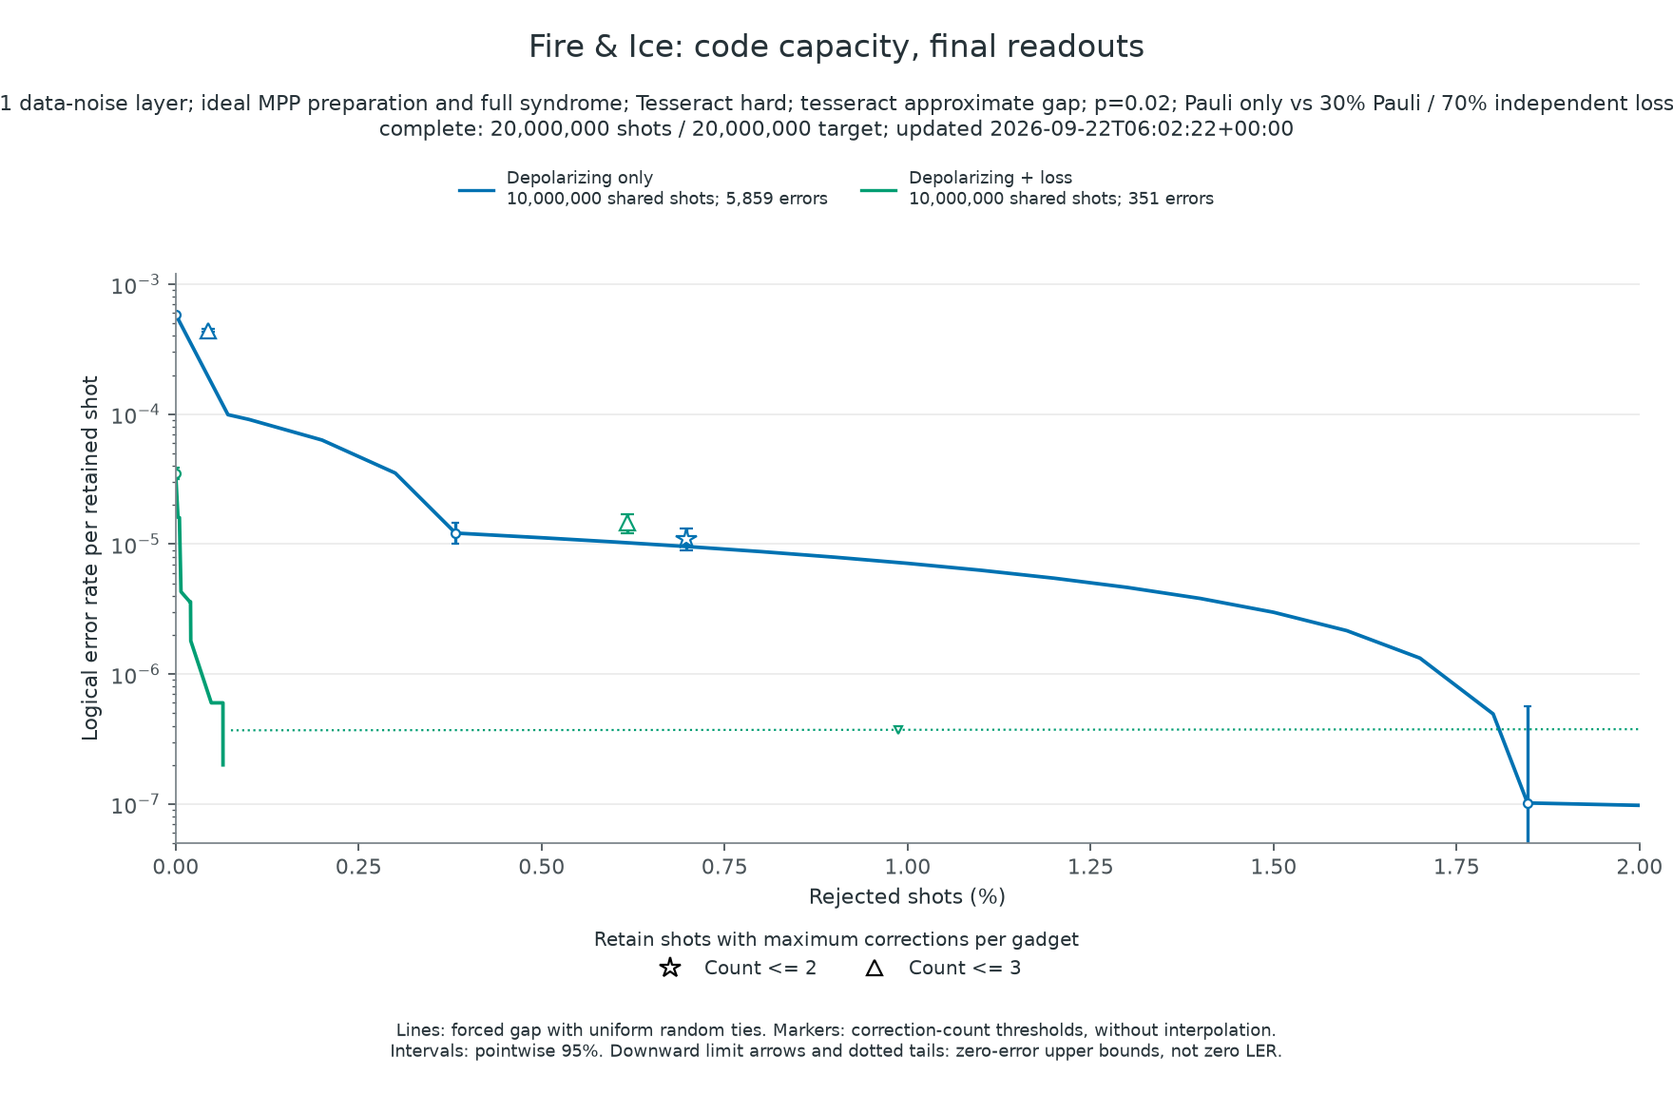
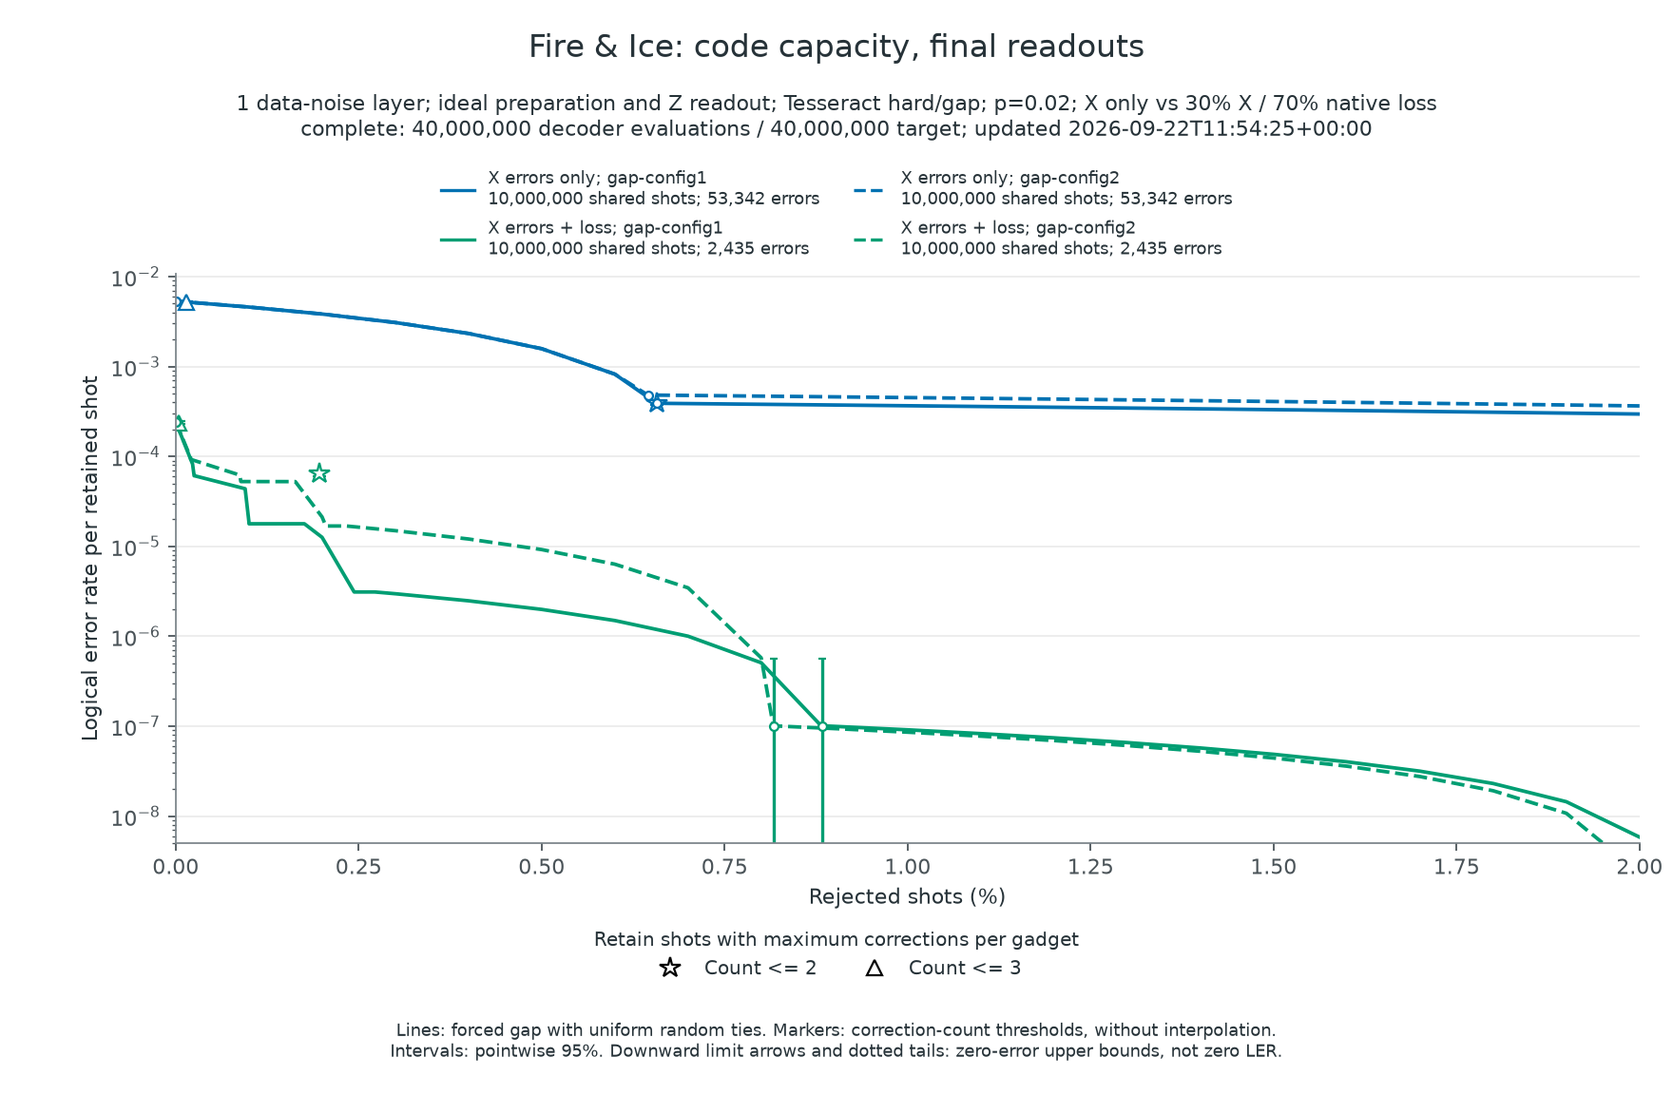
add evaluation data and script

diff --git a/deq/documents/tutorial/examples/post-selection/run_post_selection.py b/deq/documents/tutorial/examples/post-selection/run_post_selection.py
@@ -47,7 +47,7 @@ from simulation import (
 PROGRAM = "SteaneZMemory"
 CASES = ("monolithic", "window-r0", "window-r1", "window-r2", "window-r3", "window-r4", "window-r5", "window-r6")
 CAPACITY_PROGRAM = "CodeCapacityZMemory"
-CAPACITY_CASES = ("capacity-pauli", "capacity-mixed")
+CAPACITY_CASES = ("capacity-pauli", "capacity-mixed", "capacity-pauli-circuit-gap", "capacity-mixed-circuit-gap")
 BACKENDS = {"tesseract": "black-box-tesseract"}
 DEFAULT_PHYSICAL_ERROR_RATE = 0.007
 DEFAULT_SHOTS = 100_000
@@ -61,6 +61,7 @@ TESSERACT_CONFIG = {
     "det_penalty": 0.0,
 }
 GAP_CONFIG = {"det_penalty": 30, "pqlimit": 2000, "det_beam": 2, "beam_climbing": False}
+CAPACITY_GAP_CONFIG = {"det_penalty": 0, "pqlimit": 200000, "det_beam": 5, "beam_climbing": False}
 SURFACE_FIXTURE = DEQ_ROOT / "tests/circuit/surface_code/surface_code.deq"
 
 
@@ -101,7 +102,7 @@ def case_configuration(name: str, scored: bool = True, *, window_parallelism: st
 
 def compilation_directory(root: Path, name: str, *, capacity: bool = False) -> Path:
     directory = root / "setup/compile"
-    return directory / name if capacity else directory
+    return directory / name.removesuffix("-circuit-gap") if capacity else directory
 
 
 def prepare_circuit(
@@ -165,6 +166,17 @@ def load_batch(directory: Path, shots: int, *, final_readouts: int = 2) -> dict:
     }
 
 
+def batch_seed(parameters: dict, start: int) -> int:
+    return parameters["seed"] + start // parameters["batch_size"] * parameters.get("batch_seed_stride", 1)
+
+
+def case_gap_configuration(parameters: dict, name: str) -> dict:
+    return parameters.get("case_gap_configurations", {}).get(name, {
+        "gap_decoder": parameters.get("gap_decoder"),
+        "gap_decoder_config": parameters.get("gap_decoder_config"),
+    })
+
+
 def serialized_batch(function):
     @wraps(function)
     def locked(root, build, name, start, *arguments, **options):
@@ -203,6 +215,7 @@ def run_batch(
 ) -> tuple[dict, dict]:
     decoder_config = decoder_configuration(backend, decoder_config)
     gap = gap_configuration(backend, gap_decoder, gap_decoder_config)
+    final_readouts = 1 if code == "surface-code" else 2
     simulator = "static" if code == "surface-code" else "python"
     sampler_config = {} if code == "surface-code" else {
         "sampler": "@qdk_sampler",
@@ -249,7 +262,7 @@ def run_batch(
             digest(directory / name) != value for name, value in record["files"].items()
         ):
             raise ValueError("batch identity or data changed")
-        return record, load_batch(directory, shots, final_readouts=1 if code == "surface-code" else 2)
+        return record, load_batch(directory, shots, final_readouts=final_readouts)
     failure_path = directory / "failure.json"
     if accept_failure and failure_path.exists():
         failure = json.loads(failure_path.read_text())
@@ -347,7 +360,7 @@ def run_batch(
              "host": socket.gethostname()}, directory / "failure.json"
         )
         raise RuntimeError(f"native batch failed with exit {returncode}: {directory}")
-    result = load_batch(directory, shots, final_readouts=1 if code == "surface-code" else 2)
+    result = load_batch(directory, shots, final_readouts=final_readouts)
     record = {
         "identity": identity,
         "seconds": time.monotonic() - started,
@@ -425,6 +438,8 @@ def summarize(
         }
         if "case_loss_fractions" in parameters:
             case["loss_fraction"] = parameters["case_loss_fractions"][name]
+        if "case_gap_configurations" in parameters:
+            case.update(case_gap_configuration(parameters, name))
         point = (
             min(points, key=lambda point: abs(point["rejected_percent"] - 10))
             if points
@@ -466,11 +481,10 @@ def load_completed_batches(root: Path, parameters: dict) -> tuple[dict, dict]:
                 name,
                 start,
                 shots,
-                parameters["seed"] + start // parameters["batch_size"],
+                batch_seed(parameters, start),
                 parameters["rounds"],
                 timeout_seconds=identity["worker_timeout_seconds"],
-                gap_decoder=parameters.get("gap_decoder"),
-                gap_decoder_config=parameters.get("gap_decoder_config"),
+                **case_gap_configuration(parameters, name),
                 program=parameters.get("program", PROGRAM),
                 accept_failure=True,
                 _compiled_sha256=compiled_hashes[build],
@@ -551,6 +565,9 @@ def run(
     program = program or (CAPACITY_PROGRAM if capacity else PROGRAM)
     if capacity:
         rounds = 1
+        if gap_decoder is None and gap_decoder_config is None:
+            gap_decoder = BACKENDS[backend]
+            gap_decoder_config = CAPACITY_GAP_CONFIG.copy()
     code = "surface-code" if study == "surface-code" else "fire-ice"
     if physical_error_rate is None:
         physical_error_rate = 0.02 if capacity else 0.00345 if code == "surface-code" else DEFAULT_PHYSICAL_ERROR_RATE
@@ -565,6 +582,9 @@ def run(
         )
     if shots % batch_size:
         raise ValueError("shots must be a multiple of batch_size for resumable batches")
+    seed_stride = 1 if code == "surface-code" else (batch_size + 63) // 64
+    if code != "surface-code" and shots // batch_size * seed_stride > 1 << 32:
+        raise ValueError("QDK refill seeds would repeat after 32-bit wrapping; reduce the shot budget")
     if max_seconds is not None and max_seconds <= 0:
         raise ValueError("max_seconds must be positive")
     if plot_interval <= 0:
@@ -597,6 +617,7 @@ def run(
         jobs=jobs,
         batch_size=batch_size,
         seed=seed,
+        batch_seed_stride=seed_stride,
         physical_error_rate=physical_error_rate,
         noise=(f"{100 * pauli_fraction:g}% Pauli + {100 * loss_fraction:g}% loss at two-qubit gates; "
                + ("equal first/second/both loss branches; " if loss_fraction else "")
@@ -630,11 +651,18 @@ def run(
         parameters.pop("two_qubit_loss_branches")
         parameters.update(
             noise_model="capacity",
-            noise="one independent data-qubit DEPOLARIZE1/loss layer; ideal preparation and Z readout",
-            case_loss_fractions={name: 0.0 if name == "capacity-pauli" else loss_fraction for name in cases},
+            noise="independent data-qubit X_ERROR and LOSS_ERROR between ideal MPP preparation and individual Z readout",
+            pauli_noise="X_ERROR",
+            loss_observation="native per-data-qubit loss heralds from final Z measurements; no synthetic flags",
+            case_loss_fractions={name: 0.0 if name.removesuffix("-circuit-gap") == "capacity-pauli" else loss_fraction for name in cases},
+            case_gap_configurations={name: gap_configuration(backend, BACKENDS[backend], GAP_CONFIG)
+                                     if name.endswith("-circuit-gap") else gap_configuration(backend, gap_decoder, gap_decoder_config)
+                                     for name in cases},
+            gap_comparison="capacity and circuit search settings use matched QDK seeds and unchanged hard decoding",
             measurement_pauli_probability=0.0,
-            logical_error_definition="either of the two final logical Z assertions fails",
+            logical_error_definition="either final logical Z readout differs from its ideally prepared value",
             selection_scope="Final 2 asserted logical Z readouts",
+            syndrome_sectors="Z sector for X-error memory; nine independent checks",
         )
     with (root / "runner.lock").open("a") as lock:
         fcntl.flock(lock, fcntl.LOCK_EX | fcntl.LOCK_NB)
@@ -796,8 +824,9 @@ def run(
                 return summary
         if not records:
             prepare = prepare_surface_circuit if code == "surface-code" else prepare_circuit
-            for name in cases if capacity else ("monolithic",):
-                fraction = parameters.get("case_loss_fractions", {}).get(name, loss_fraction)
+            compile_cases = dict.fromkeys(name.removesuffix("-circuit-gap") for name in cases) if capacity else ("monolithic",)
+            for name in compile_cases:
+                fraction = 0.0 if capacity and name == "capacity-pauli" else loss_fraction
                 circuit = prepare(
                     rounds, physical_error_rate, root / f"{name if capacity else code}.deq",
                     **({"loss_fraction": fraction} if code == "fire-ice" else {}),
@@ -823,9 +852,9 @@ def run(
         def submit(pool, task):
             name, start = task
             return pool.submit(
-                execute_batch, root, builds[name], name, start, batch_size, seed + start // batch_size,
-                rounds, backend=backend, sampling=sampling, gap_decoder=gap_decoder,
-                gap_decoder_config=gap_decoder_config, program=program, decoder_config=hard_config,
+                execute_batch, root, builds[name], name, start, batch_size, batch_seed(parameters, start),
+                rounds, backend=backend, sampling=sampling, **case_gap_configuration(parameters, name),
+                program=program, decoder_config=hard_config,
                 window_parallelism=window_parallelism, code=code,
             )
 
@@ -837,9 +866,9 @@ def run(
                 if not (root / name / "chunks" / f"{start:09d}" / "failure.json").exists():
                     raise
                 record, result = run_batch(
-                    root, builds[name], name, start, batch_size, seed + start // batch_size,
-                    rounds, backend=backend, sampling=sampling, gap_decoder=gap_decoder,
-                    gap_decoder_config=gap_decoder_config, program=program, accept_failure=True,
+                    root, builds[name], name, start, batch_size, batch_seed(parameters, start),
+                    rounds, backend=backend, sampling=sampling, **case_gap_configuration(parameters, name),
+                    program=program, accept_failure=True,
                     decoder_config=hard_config, window_parallelism=window_parallelism, code=code,
                 )
                 print(json.dumps({"event": "execution_failure", "case": name,
@@ -910,10 +939,10 @@ def main():
         loss_fraction=loss_fraction, cases=tuple(args.cases or saved.get("configurations", CAPACITY_CASES if capacity else CASES)),
         window_parallelism=parallelism, decoder_config=setting("decoder_config", None),
         gap_decoder=setting("gap_decoder", None if saved else "black-box-tesseract"),
-        gap_decoder_config=setting("gap_decoder_config", None if saved else GAP_CONFIG),
+        gap_decoder_config=setting("gap_decoder_config", None if saved else CAPACITY_GAP_CONFIG if capacity else GAP_CONFIG),
     )
     if args.plot_only:
-        if capacity and (saved.get("decoder") != "Tesseract" or saved.get("program") != CAPACITY_PROGRAM):
+        if capacity and (saved.get("decoder") != "Tesseract" or saved.get("program") not in (CAPACITY_PROGRAM, "CodeCapacityXMemory")):
             parser.error("capacity plotting requires native DEQ results; use frozen tools for the retired Python reference")
         summary = (json.loads((root / "summary.json").read_text())
                if not (root / "manifest.json").exists() else recover_summary(root))

diff --git a/deq/documents/tutorial/examples/post-selection/post_selection_plots.py b/deq/documents/tutorial/examples/post-selection/post_selection_plots.py
@@ -22,8 +22,10 @@ from post_selection_stats import (
 
 CASE_STYLES = {
     "monolithic": ("Monolithic", "#222222"),
-    "capacity-pauli": ("Depolarizing only", "#0072B2"),
-    "capacity-mixed": ("Depolarizing + loss", "#009E73"),
+    "capacity-pauli": ("X errors only", "#0072B2"),
+    "capacity-mixed": ("X errors + loss", "#009E73"),
+    "capacity-pauli-circuit-gap": ("X errors only", "#0072B2"),
+    "capacity-mixed-circuit-gap": ("X errors + loss", "#009E73"),
     "window-r0": ("Radius 0", "#0072B2"),
     "window-r1": ("Radius 1", "#D55E00"),
     "window-r2": ("Radius 2", "#009E73"),
@@ -198,13 +200,15 @@ def draw(
         visible_rates = []
         for entry in series:
             color = entry["color"]
-            handles.append(Line2D([], [], color=color, label=entry["label"]))
+            linestyle = entry.get("linestyle", "-")
+            handles.append(Line2D([], [], color=color, linestyle=linestyle, label=entry["label"]))
             curve = entry["gap"]
             axes.plot(
                 [point["rejected_percent"] for point in curve],
                 [point["rate"] or np.nan for point in curve],
                 color=color,
                 linewidth=1.7,
+                linestyle=linestyle,
             )
             axes.plot(
                 [point["rejected_percent"] for point in curve],
@@ -294,7 +298,8 @@ def draw(
             for entry in conditioned_series:
                 curve = entry["gap"]
                 conditional_axes.plot([point["rejected_percent"] for point in curve],
-                                      [point["rate"] or np.nan for point in curve], color=entry["color"], linewidth=1.7)
+                                      [point["rate"] or np.nan for point in curve], color=entry["color"], linewidth=1.7,
+                                      linestyle=entry.get("linestyle", "-"))
                 conditional_axes.plot([point["rejected_percent"] for point in curve],
                                       [point.get("upper_limit") or np.nan for point in curve],
                                       color=entry["color"], linewidth=1, linestyle=":")
@@ -338,7 +343,7 @@ def draw(
             handles=handles,
             loc="upper center",
             bbox_to_anchor=(0.5, 0.86 if multiline_subtitle else 0.88),
-            ncol=4 if len(handles) > 6 else 3 if len(handles) > 4 else max(1, len(handles)),
+            ncol=4 if len(handles) > 6 else 3 if len(handles) > 4 else 2 if len(handles) == 4 else max(1, len(handles)),
             frameon=False,
             fontsize=8,
         )
@@ -387,6 +392,7 @@ def render_native(
 ) -> None:
     surface = summary.get("code") == "surface-code"
     capacity = summary.get("noise_model") == "capacity"
+    paired_gaps = capacity and "case_gap_configurations" in summary
     name = "Distance-5 surface code" if surface else "Fire & Ice"
     upper_bounds_only = all(
         not group["logical_errors"]
@@ -418,14 +424,17 @@ def render_native(
                 1 - point["retained_shots"] / case["shots"]
             )
         logical_errors = sum(group["logical_errors"] for group in case["groups"]["gap"])
+        circuit_gap = case["name"].endswith("-circuit-gap")
+        gap_label = ("; gap-config2" if circuit_gap else "; gap-config1") if paired_gaps else ""
         series.append(
             {
                 "label": (
-                    f"{CASE_STYLES[case['name']][0]}\n{case['shots']:,} shared shots; "
+                    f"{CASE_STYLES[case['name']][0]}{gap_label}\n{case['shots']:,} shared shots; "
                     f"{logical_errors:,} {'error' if logical_errors == 1 else 'errors'}"
                     + (f"\n{failed:,} unavailable ({100 * failed / case['shots']:.1f}%)" if failed else "")
                 ),
                 "color": CASE_STYLES[case["name"]][1],
+                "linestyle": "--" if circuit_gap else "-",
                 "gap": curve,
                 "weight": threshold_points(
                     [
@@ -434,13 +443,14 @@ def render_native(
                     ],
                     attempted_shots=case["shots"],
                     limits=count_limits,
-                ),
+                ) if not circuit_gap else [],
             }
         )
         conditioned_series.append({
             "color": CASE_STYLES[case["name"]][1],
+            "linestyle": "--" if circuit_gap else "-",
             "gap": conditional_curve,
-            "weight": threshold_points([ScoreGroup(**group) for group in case["groups"][selection_statistic]], limits=count_limits),
+            "weight": threshold_points([ScoreGroup(**group) for group in case["groups"][selection_statistic]], limits=count_limits) if not circuit_gap else [],
         })
     program = summary.get("program", "SteaneMemory")
     rounds = (
@@ -456,11 +466,13 @@ def render_native(
     noise_label = ("SI1000 Pauli noise" if surface else "100% Pauli; no loss" if loss_fraction == 0
                    else f"{100 * (1 - loss_fraction):g}% Pauli / {100 * loss_fraction:g}% correlated loss")
     if capacity:
-        noise_label = f"Pauli only vs {100 * (1 - loss_fraction):g}% Pauli / {100 * loss_fraction:g}% independent loss"
+        noise_label = f"X only vs {100 * (1 - loss_fraction):g}% X / {100 * loss_fraction:g}% native loss"
     decoder_label = summary.get("decoder", "Tesseract")
     if summary.get("gap_decoder"):
         decoder_label += f" hard; {summary['gap_decoder'].removeprefix('black-box-')} approximate gap"
-    progress = f"{summary['status']}: {sum(case['shots'] for case in summary['cases']):,} shots"
+    if capacity and summary.get("gap_decoder") == "black-box-tesseract":
+        decoder_label = "Tesseract hard/gap"
+    progress = f"{summary['status']}: {sum(case['shots'] for case in summary['cases']):,} {'decoder evaluations' if paired_gaps else 'shots'}"
     if "shots" in summary:
         total_target = summary["shots"] * len(
             summary.get("configurations", summary["cases"])

diff --git a/deq/tests/transpiler/jit_library_builder_test.py b/deq/tests/transpiler/jit_library_builder_test.py
@@ -4,8 +4,9 @@ import warnings
 from pathlib import Path
 
 import pytest
+import stim
 
-from deq.circuit.model import ProgramDefinition
+from deq.circuit.model import CodeDefinition, GadgetDefinition, Instruction, ProgramDefinition
 from deq.circuit.parser import parse, parse_file, render_and_parse_file
 from deq.cli.jit import compile_program_for_jit
 from deq.compiler.jit_compiler import static_jit_compiler
@@ -83,18 +84,31 @@ def test_build_library_on_repetition_code_d3() -> None:
                 assert m.measurement_index < len(syndrome.base.measurements)
 
 
-def test_build_library_on_fire_ice() -> None:
+@pytest.mark.parametrize("loss_fraction", ["0", "0.7"])
+def test_build_library_on_fire_ice(loss_fraction: str) -> None:
     source = render_and_parse_file(
         str(REPO_ROOT / "tests/circuit/fixtures/fire_ice.deq"),
-        mako_defs={"p": "0.001"},
+        mako_defs={"p": "0.001", "loss_fraction": loss_fraction},
         skip_mako_warning=True,
     )
+    code = next(item for item in source.definitions if isinstance(item, CodeDefinition) and item.name == "FireIce")
+    measurement = next(item for item in source.definitions if isinstance(item, GadgetDefinition) and item.name == "MeasureCapacityZ")
+    instructions = [item for item in measurement.body if isinstance(item, Instruction)]
+    assert [instruction.name for instruction in instructions] == ["X_ERROR", "LOSS_ERROR", "M"]
+    for instruction in instructions:
+        assert [target.index for target in instruction.targets] == list(range(code.n))
+    assert float(instructions[0].arguments[0]) == pytest.approx(0.001 * (1 - float(loss_fraction)))
+    assert float(instructions[1].arguments[0]) == pytest.approx(0.001 * float(loss_fraction))
     library = build_jit_library(source)
-    capacity_noise = next(gadget for gadget in library.gadget_types if gadget.base.name == "CapacityNoise")
-    assert len(capacity_noise.base.inputs) == len(capacity_noise.base.outputs) == 1
-    assert not capacity_noise.base.measurements
+    preparation = next(gadget for gadget in library.gadget_types if gadget.base.name == "PrepareCapacityMPP")
+    assert not preparation.base.inputs and len(preparation.base.outputs) == 1
+    assert len(preparation.base.measurements) == 20
     assert any(isinstance(definition, ProgramDefinition) and definition.name == "CodeCapacityZMemory"
                for definition in source.definitions)
+    readout = next(gadget for gadget in library.gadget_types if gadget.base.name == "MeasureCapacityZ")
+    assert len(readout.base.readouts) == 2
+    assert len(readout.base.measurements) == 20
+    assert len(readout.finished_checks) == 9
 
 
 def test_build_jit_library_projects_library_from_artifacts() -> None:

diff --git a/deq/documents/tutorial/examples/post-selection/gen_small_shots.py b/deq/documents/tutorial/examples/post-selection/gen_small_shots.py
@@ -9,6 +9,10 @@ from tempfile import TemporaryDirectory
 
 
 def main():
+    from run_post_selection import batch_seed
+
+    parameters = {"seed": 17, "batch_size": 1000, "batch_seed_stride": 16}
+    assert batch_seed(parameters, 1000) == batch_seed(parameters, 0) + 16
     example = Path(__file__).resolve().parent
     with TemporaryDirectory(prefix="post-selection-smoke-") as directory:
         root = Path(directory)
@@ -22,15 +26,27 @@ def main():
         )
         for study in ("capacity", "surface", "fire-ice-sliding", "fire-ice-all"):
             summary = json.loads((root / "data" / study / "summary.json").read_text())
-            expected_cases = 2 if study == "capacity" else 8
+            expected_cases = 4 if study == "capacity" else 8
             if summary["status"] != "complete" or len(summary["cases"]) != expected_cases:
                 raise RuntimeError(f"{study}: incomplete smoke evaluation")
             if study == "capacity" and (
                 summary.get("program") != "CodeCapacityZMemory" or summary.get("decoder") != "Tesseract"
             ):
                 raise RuntimeError("capacity must exercise the native DEQ program and decoder")
+            expected_stride = 1 if study == "surface" else (summary["batch_size"] + 63) // 64
+            if summary.get("batch_seed_stride") != expected_stride:
+                raise RuntimeError(f"{study}: overlapping sampler seed ranges")
             if any(case["shots"] != 10 or case.get("failed_shots", 0) for case in summary["cases"]):
                 raise RuntimeError(f"{study}: failed smoke evaluation shots")
+            if study == "capacity":
+                cases = {case["name"]: case for case in summary["cases"]}
+                for name in ("capacity-pauli", "capacity-mixed"):
+                    precise, fast = cases[name], cases[name + "-circuit-gap"]
+                    if precise["logical_errors"] != fast["logical_errors"] or any(
+                        precise["groups"][statistic] != fast["groups"][statistic]
+                        for statistic in ("correction_count", "correction_weight", "syndrome_count")
+                    ):
+                        raise RuntimeError("capacity gap comparison changed hard decoding")
         figures = list((root / "figures").glob("*.pdf"))
         if len(figures) != 5 or any(not path.read_bytes().startswith(b"%PDF") for path in figures):
             raise RuntimeError("expected five generated PDF figures")
